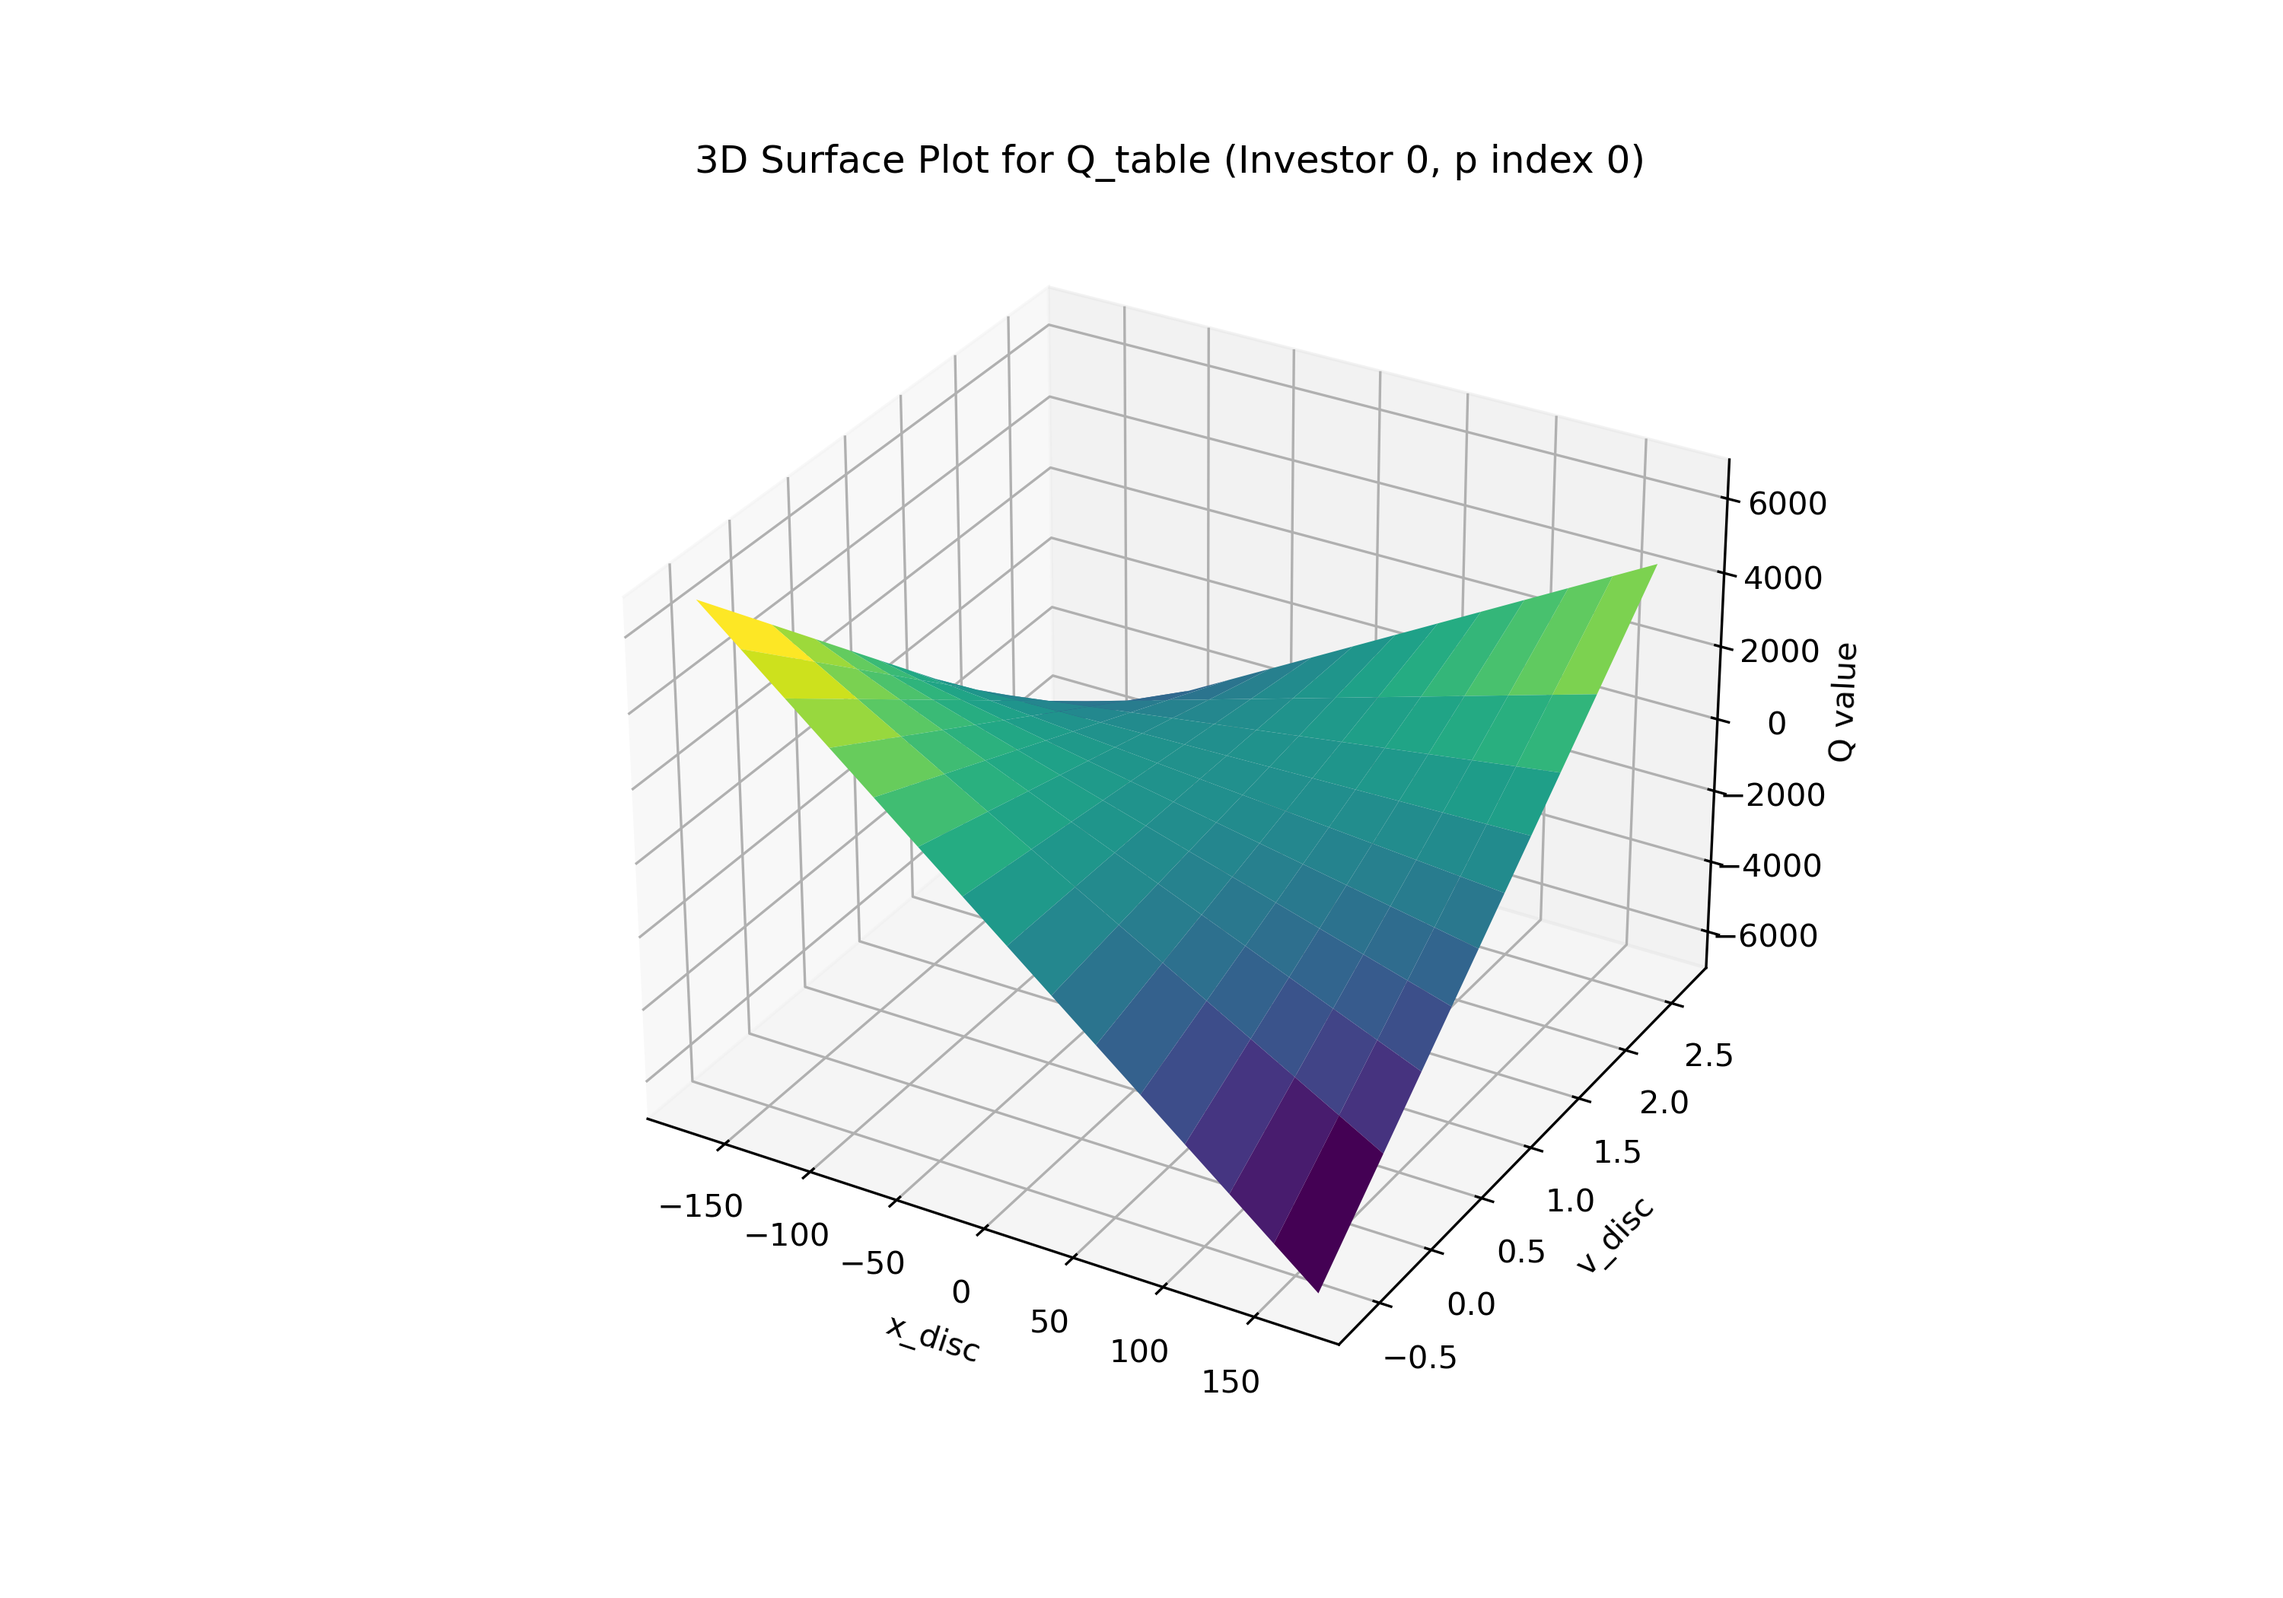
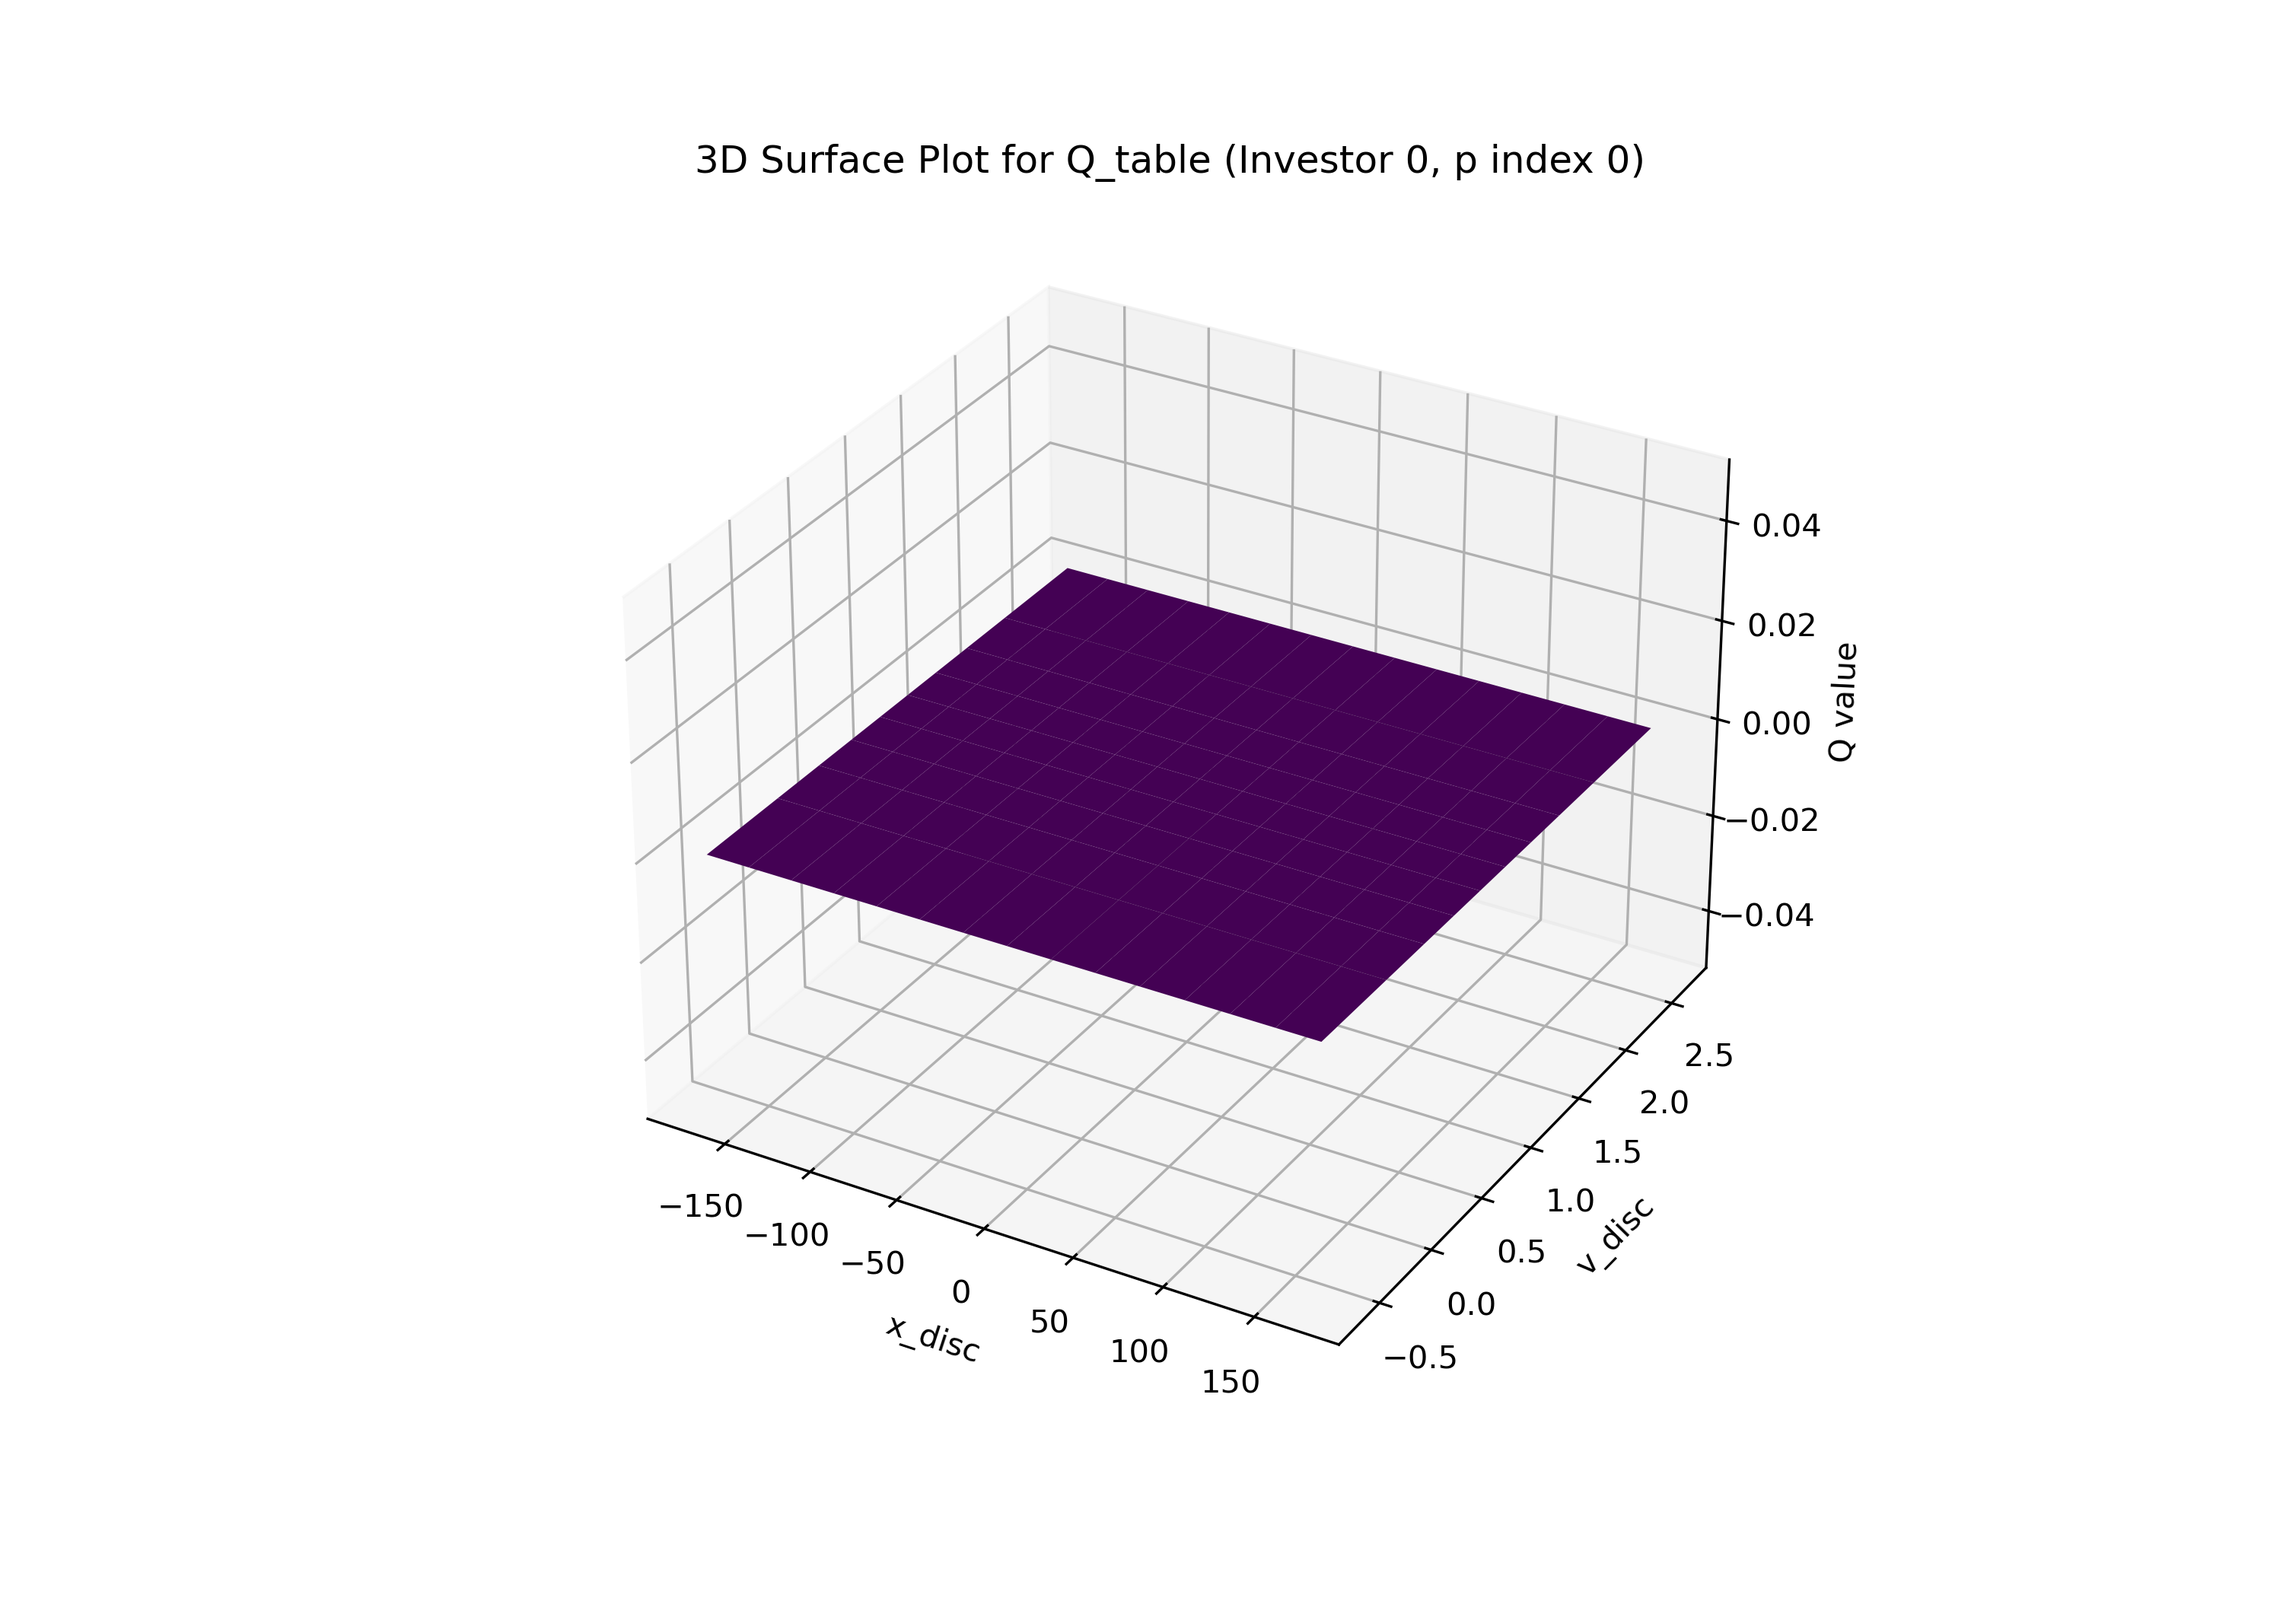
batch

diff --git a/simulate_batch.py b/simulate_batch.py
@@ -1,4 +1,4 @@
-from util import simulate
+from util import simulate_batch
 from config import Config
 import argparse, json, numpy as np
 from pathlib import Path
@@ -13,20 +13,28 @@ parser.add_argument("--sigma_u", type=float,
                     help="Override noise-trader σᵤ (float)")
 args = parser.parse_args()
 
-c = Config(sigma_u=100)
+c = Config(sigma_u = 0.1)
 
 if args.sigma_u is not None:
     c.sigma_u = args.sigma_u
 print(f"Running simulation with σᵤ = {c.sigma_u}")
 counter = 0
 convergence_threshold = 1000000
-
-
-
+save = '/rds/general/user/mc4724/home/data/sigma_u_' + str(c.sigma_u)+'_part_0'+'.pt'
+# save = 'data_0.pt'
+log, agents = simulate_batch(T = 50000, B=1000, config = c, 
+                           save_path=save)
+i = 1
 while counter < convergence_threshold:
-    log, agents = simulate(T = 500000, config = c, 
-                           save_path='/rds/general/user/mc4724/home/data/sigma_u_' + str(c.sigma_u))
+    new_save = '/rds/general/user/mc4724/home/data/sigma_u_' + str(c.sigma_u)+'_part_{0}'.format(i)+'.pt'
+    # new_save = 'data_{0}.pt'.format(i)
+    log, agents = simulate_batch(T = 50000, B=1000, config = c, 
+                           save_path= new_save,
+                           continue_simulation=save)
+    i += 1
+    save = new_save
     # Check if the agents have converged
-    counter = min([agent.convergence_counter for agent in agents['informed']])
+    counter = log['convergence_counter']
     print(f"Convergence counter: {counter}")
-    break
+    # if i > 3:
+    #     break
